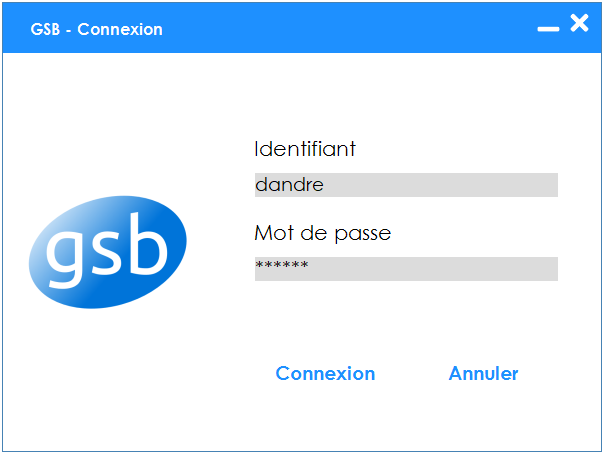
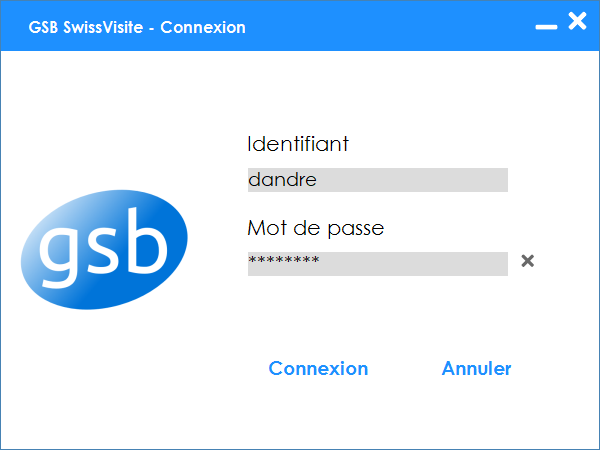
Ecran et mécanismes de connexion modifiés

diff --git a/SwissVisiteForm/Forms/ConnexionForm.cs b/SwissVisiteForm/Forms/ConnexionForm.cs
@@ -23,6 +23,32 @@ namespace SwissVisite.Forms
 
             identifiantVal.TextChanged += TextBox_TextChanged;
             motDePasseVal.TextChanged += TextBox_TextChanged;
+
+            identifiantVal.Enter += IdentifiantVal_Enter;
+            identifiantVal.Leave += IdentifiantVal_Leave;
+
+            motDePasseVal.Enter += MotDePasseVal_Enter;
+            motDePasseVal.Leave += MotDePasseVal_Leave;
+        }
+
+        private void MotDePasseVal_Leave(object sender, EventArgs e)
+        {
+            motDePasseValEffaceBtn.Enabled = motDePasseValEffaceBtn.Visible = false;
+        }
+
+        private void MotDePasseVal_Enter(object sender, EventArgs e)
+        {
+            motDePasseValEffaceBtn.Enabled = motDePasseValEffaceBtn.Visible = true;
+        }
+
+        private void IdentifiantVal_Leave(object sender, EventArgs e)
+        {
+            identifiantValEffaceBtn.Enabled = identifiantValEffaceBtn.Visible = false;
+        }
+
+        private void IdentifiantVal_Enter(object sender, EventArgs e)
+        {
+            identifiantValEffaceBtn.Enabled = identifiantValEffaceBtn.Visible = true;
         }
 
         private void TextBox_TextChanged(object sender, EventArgs e)
@@ -30,9 +56,6 @@ namespace SwissVisite.Forms
             connexionBtn.Enabled = !string.IsNullOrEmpty(identifiantVal.Text) && !string.IsNullOrEmpty(motDePasseVal.Text);
             erreurTextBox.Visible = false;
             erreurTextBox.Text = "";
-
-            identifiantValEffaceBtn.Enabled = identifiantValEffaceBtn.Visible = !string.IsNullOrEmpty(identifiantVal.Text);
-            motDePasseValEffaceBtn.Enabled = motDePasseValEffaceBtn.Visible = !string.IsNullOrEmpty(motDePasseVal.Text);
         }
 
         private void quitterBtn_Click(object sender, EventArgs e)
